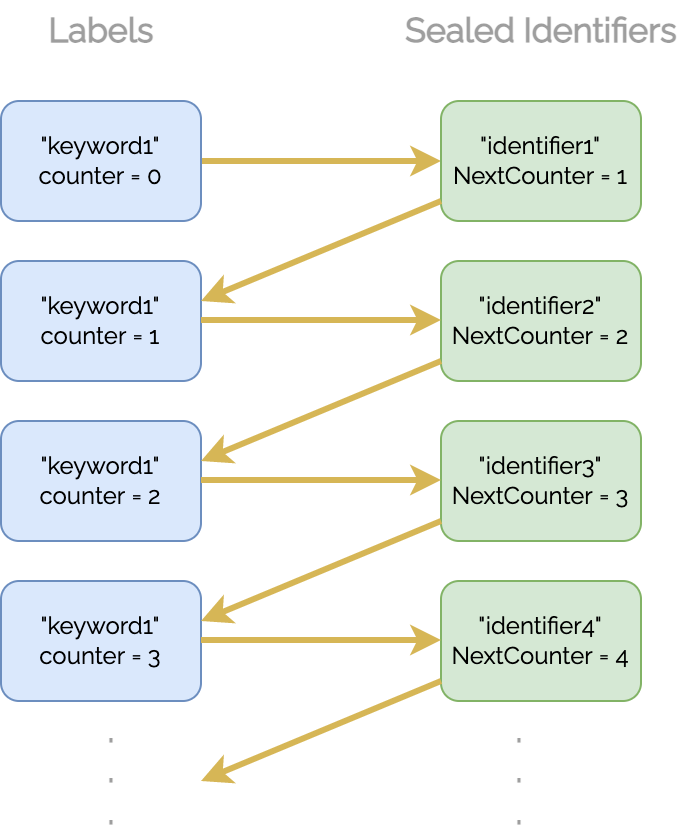
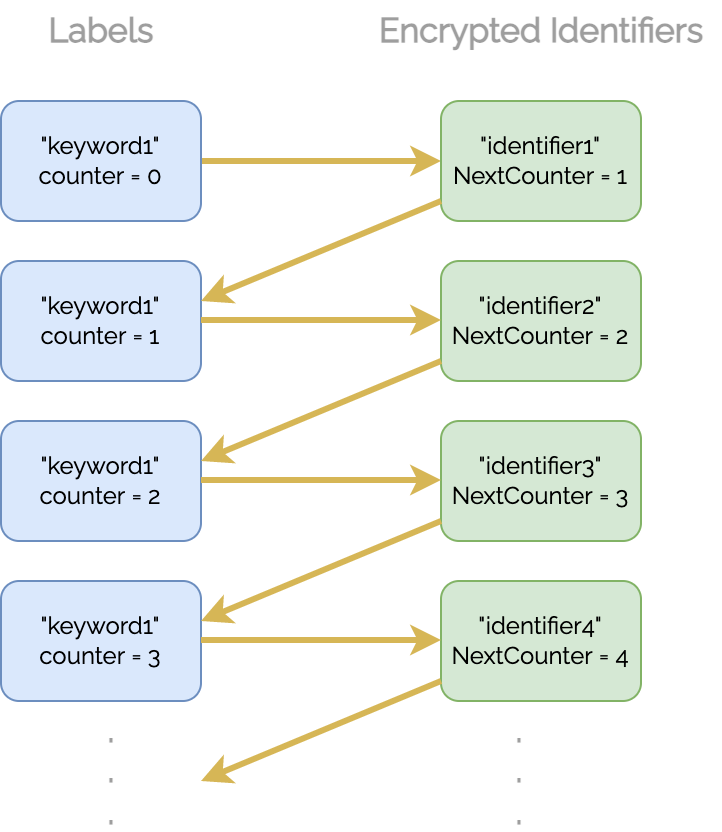
Move searchable user manual to explainer document.

diff --git a/documentation/explainer.md b/documentation/explainer.md
@@ -107,6 +107,56 @@ The D1 library can be used to implement various access control schemes for prote
 
 ## Searchable encrypted data
 
-The D1 library implements Searchable Symmetric Encryption which allows users to search for keywords in encrypted data without decrypting it. The contents of the Data Objects and the number of keywords are hidden from the searching party.
+The D1 library implements a secure index which can be used to create Searchable Symmetric Encryption which allows users to search for keywords in encrypted data without decrypting it. 
 
 ![sse.svg](images/sse.svg)
+
+### Secure index
+
+A secure index is an encrypted map on which 3 operations can be queried, `Add`, `Search`, and `Delete`.
+
+(Usually, the elements in a hash map are called keys and values. In this context the keys are referred to as *labels* in order to not mix them up with encryption keys.) 
+
+* `Add` takes as input a keyword and an identifier (e.g. a document ID), computes an encrypted label -> value pair, and stores it in a secure index. The label -> value pair maps the given keyword to the given identifier.
+* `Search` takes as input a keyword, computes the corresponding encrypted labels, finds the encrypted values in the secure index that the labels map to, decrypts them, and returns the plaintext identifiers to the user.
+* `Delete` takes as input a keyword and an identifier, computes the encrypted label -> value pair, and deletes that pair from the secure index.
+
+The security properties that the implementation brings are:
+* The total number of keyword/identifier pairs is hidden from the caller (but not from the IO Provider).
+* The total number of identifiers is hidden from both the caller and the IO Provider.
+* The D1 Library does not leak unencrypted keywords or identifiers to any other parties than the caller.
+* The IO Provider cannot learn anything from the queries about which identifiers contain which keywords as everything (keywords and identifiers) is encrypted in the IO Provider.
+
+### Usage
+Consider a scenario with 3 different documents identified as `id1`, `id2`, `id3`, respectively. The documents contain, among other words, the following keywords, and the keyword/identifier pairs can be added to the secure index.
+
+* `id1` contains the keyword `keyword1`. 
+* `id1` and `id2` both contain the keyword `keyword2`.
+* `id2` contains the keyword `keyword3`.
+* `id1`, `id2`, and `id3` all contain the keyword `keyword4`.
+
+Given a keyword for a `Search` query, all the identifiers that contain the given keyword can then be identified, even when the documents are encrypted. Given e.g. `keyword4` for a `Search` query, the output will be `["id1", "id2", "id3"]`. If keyword `keyword4` and identifier `id1` are then given to a `Delete` query, then the output from the `Search` query on input `keyword4` will now be `["id2", "id3"]`.
+
+### Implementation
+
+In this section, some more technical details about the implementation are given.
+
+Given a keyword and an identifer for an `Add` query, a label is computed based on a secret key, the keyword, and a *counter* (explained below), and an Identifier struct representing the identifier is created. The label is then mapped to the Identifier as shown below, and the "label -> Identifier" correlation is stored in the secure index. The Identifier is encrypted before it is stored in order to avoid having plaintext keywords or identifiers outside of the D1 Library. Note that the keyword is used to seal the Identifier which means that the encrypted Identifier can only be decrypted if the keyword is known.
+
+In secure index:
+```go
+label(keyword, counter) -> encrypted Identifier(keyword, identifier)
+```
+
+An Identifier struct (before encryption) contains the identifier itself as well as a `NextCounter` as shown below. `NextCounter` is used to compute the next label based on the same keyword. If the keyword has only been mapped to a single identifier, then its encrypted Identifier's `NextCounter` is 0. Given a keyword for a `Search` query, all the identifiers that it maps to, i.e. all the identifiers that contain the given keyword, are then easily found by going through the chain of `NextCounter`'s and computing the corresponding label for each counter. The chain is illustrated below. It is ensured that the counter used to compute the first label in the chain is always known.
+
+```go
+Identifier = {
+    Identifier:   "id1",
+    NextCounter:  1,
+}
+```
+
+![sse-chain.png](images/sse-chain.png)
+
+Given a keyword and an identifer for a `Delete` query, the correct label/encrypted Identifier pair is found and deleted. The chain remains intact as the previous `NextCounter` is updated to the deleted encrypted Identifier's `NextCounter`.
